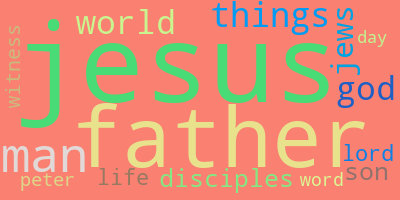
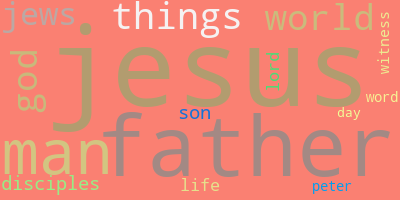
lower() added

diff --git a/nlp_John.py b/nlp_John.py
@@ -14,7 +14,7 @@ blob = TextBlob(Path("book of John text.txt").read_text())
 
 # Create a function to hold the boolean for the nouns
 is_noun = lambda pos: pos[:2] == "NN"
-noun_list = [word for (word, word_type) in blob.tags if is_noun(word_type)]
+noun_list = [word.lower() for (word, word_type) in blob.tags if is_noun(word_type)]
 
 # Create a string to hold the nouns
 noun_words = ""
